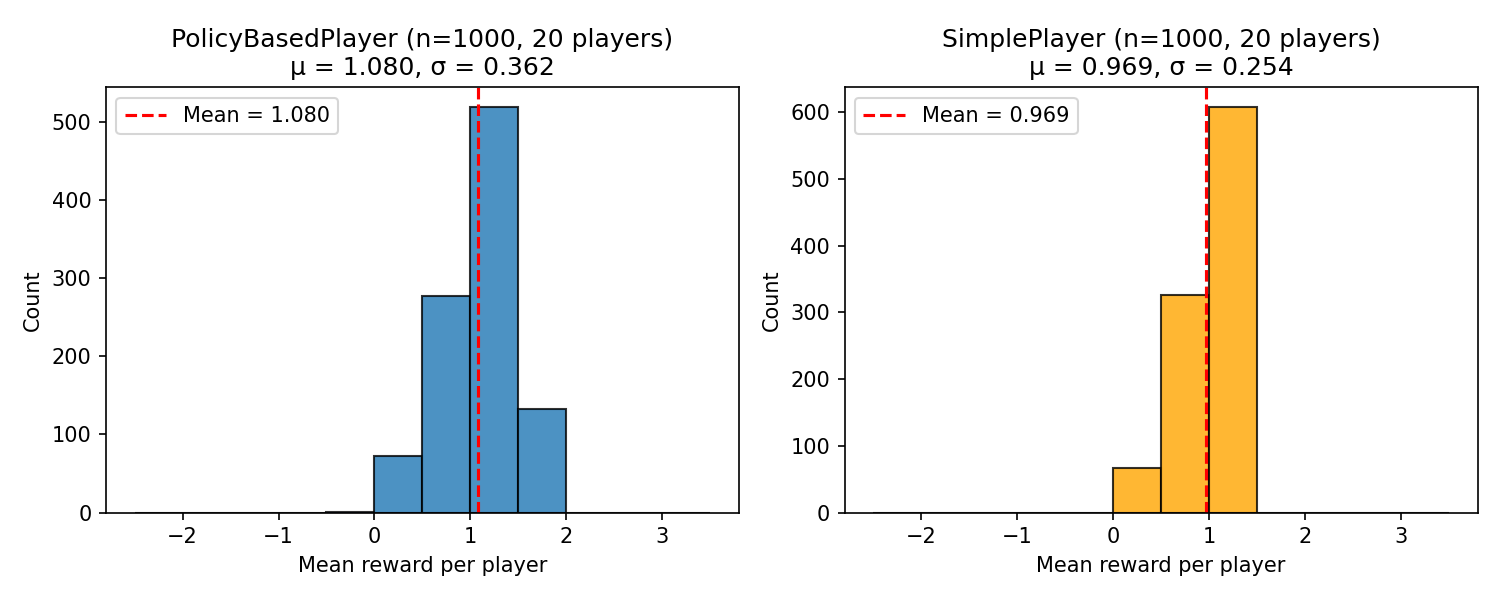
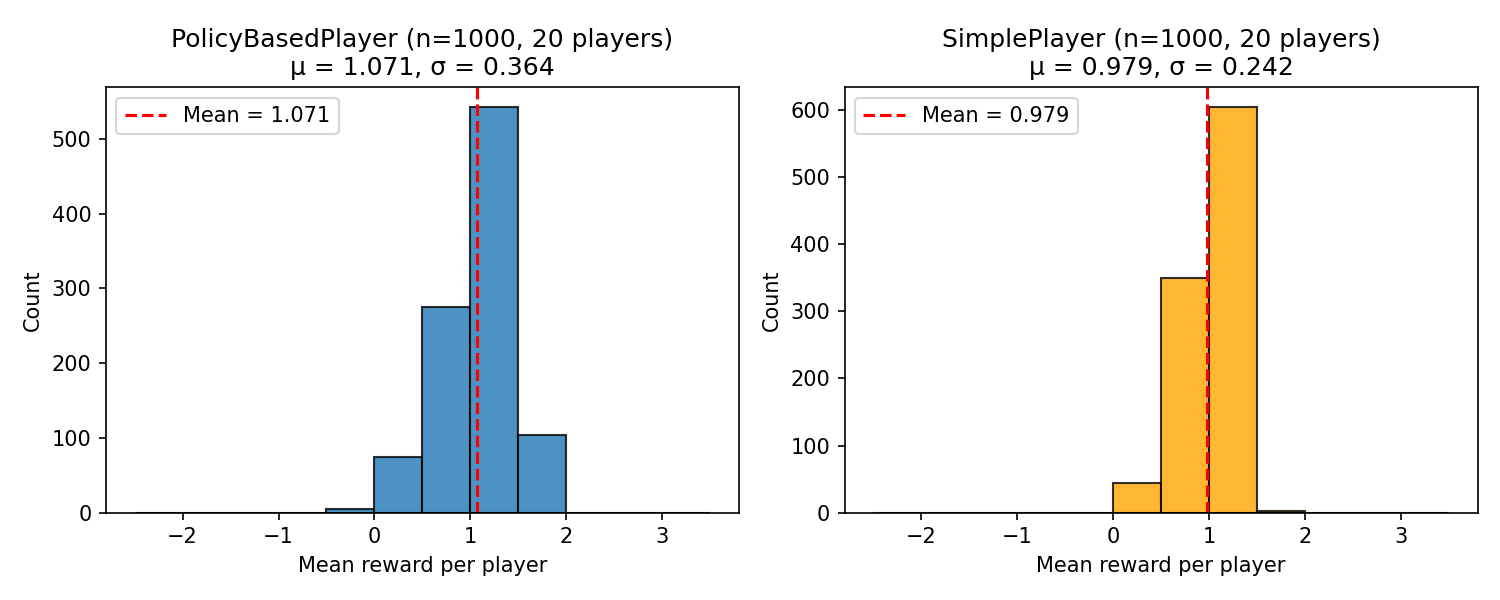
feat: clean up

diff --git a/benchmark.py b/benchmark.py
@@ -13,12 +13,9 @@ import json
 import random
 from pathlib import Path
 import matplotlib.pyplot as plt
-from game import (
-    Game,
-    Action,
-    is_natural_blackjack,
-    dealer_bot_action,
-)
+from game import Card, Game, make_deck
+from game import Action, is_natural_blackjack, dealer_bot_action
+from deck import DeckCuttingStrategy, DeckShuffleStrategy, SwooshShuffleStrategy
 from players import Player, SimplePlayer, PolicyBasedPlayer
 from agent import policy_from_dict
 from scipy import stats
@@ -31,20 +28,23 @@ def run_game_all_same_strategy(
     game: Game,
     player: Player,
     *,
-    seed: int,
-    is_first_round: bool,
+    deck: list[Card],
 ) -> float:
     """
     Run one game. All non-dealer players use the same strategy.
-    Uses the shared game instance: first round calls deal(), later rounds use soft_reset + deal_round.
+    Uses the shared game instance: first round uses a new deck and first_shuffle; later rounds use soft_reset + subsequent_shuffle + deal_round.
     Returns the mean reward per player (over positions 1..n_players).
     """
-    random.seed(seed)
-    if is_first_round:
-        game.deal()
-    else:
-        game.soft_reset()
-        game.deal_round()
+    # random.seed(seed)
+    # if is_first_round:
+    #     deck = make_deck()
+    #     first_shuffle.shuffle(deck, is_first=True)
+    #     game.deal(deck)
+    # else:
+    #     game.soft_reset()
+    #     subsequent_shuffle.shuffle(game.deck, is_first=False)
+    #     game.deal_round()
+    game.deal(deck)
 
     while not game.all_turns_done():
         current = game.current_turn
@@ -134,20 +134,29 @@ def main() -> None:
     rewards_policy: list[float] = []
     rewards_simple: list[float] = []
     game = Game(n_players=n_players)
+    first_shuffle = SwooshShuffleStrategy()
+    subsequent_shuffle = DeckCuttingStrategy()
 
+    deck = make_deck()
+    first_shuffle.shuffle(deck, is_first=True)
     for run in range(num_runs):
-        seed = run
-        is_first = run == 0
         rewards_policy.append(
             run_game_all_same_strategy(
-                game, policy_player, seed=seed, is_first_round=is_first
+                game,
+                policy_player,
+                deck=deck,
             )
         )
+        game.soft_reset()
         rewards_simple.append(
             run_game_all_same_strategy(
-                game, simple_player, seed=seed, is_first_round=False
+                game,
+                simple_player,
+                deck=deck,
             )
         )
+        game.soft_reset()
+        subsequent_shuffle.shuffle(deck, is_first=False)
 
     # Stats
     def mean(xs: list[float]) -> float:

diff --git a/game.py b/game.py
@@ -6,7 +6,7 @@ import random
 from dataclasses import dataclass, field
 from enum import Enum
 from typing import List, Optional
-from deck import DeckCuttingStrategy, DeckShuffleStrategy, SwooshShuffleStrategy
+
 
 class Suit(str, Enum):
     SPADES = "♠"
@@ -146,39 +146,24 @@ class PlayerState:
 
 
 class Game:
-    """Single round: one dealer, positions 1..n_players (N = n_players + 1)."""
+    """Single round: one dealer, positions 1..n_players (N = n_players + 1). Caller passes the deck to deal()."""
 
-    def __init__(
-        self,
-        n_players: int,
-        *,
-        first_shuffle: DeckShuffleStrategy | None = None,
-        subsequent_shuffle: DeckShuffleStrategy | None = None,
-    ):
+    def __init__(self, n_players: int):
         assert n_players >= 1
         self.n_players = n_players
         self.N = n_players + 1  # dealer + players
-        self.deck: List[Card] = make_deck()
+        self.deck: List[Card] = []
         self.players: List[PlayerState] = []
         self.current_turn: int = 1  # 1 to n_players, then 0 for dealer
         self.revealed: bool = False
-        self._first_deal = True
-        default = SwooshShuffleStrategy()
-        self._first_shuffle = first_shuffle if first_shuffle is not None else default
-        self._subsequent_shuffle = DeckCuttingStrategy(proportion_min=0.1, proportion_max=0.7, n=10)
-        # self._subsequent_shuffle = subsequent_shuffle if subsequent_shuffle is not None else default
 
     def _seat_order_for_deal(self) -> List[int]:
         """Order to deal: first card to 1, 2, ..., n_players, 0; then same again."""
         return list(range(1, self.N)) + [0]
 
-    def deal(self) -> None:
-        # self.deck = make_deck()
-        if self._first_deal:
-            self._first_shuffle.shuffle(self.deck, is_first=True)
-            self._first_deal = False
-        else:
-            self._subsequent_shuffle.shuffle(self.deck, is_first=False)
+    def deal(self, deck: List[Card]) -> None:
+        """Deal from the provided deck (caller is responsible for shuffling). Deck is used in place."""
+        self.deck = deck
         self.players = [PlayerState(position=k) for k in range(self.N)]
         order = self._seat_order_for_deal()
         for _ in range(2):

diff --git a/main.py b/main.py
@@ -4,6 +4,7 @@
 import json
 from pathlib import Path
 
+from deck import SwooshShuffleStrategy
 from game import (
     Game,
     Action,
@@ -12,6 +13,7 @@ from game import (
     is_natural_blackjack,
     bot_hold_or_draw,
     dealer_bot_action as _dealer_bot_action,
+    make_deck,
 )
 
 # Optional: trained RL agent (load when user chooses "trained agent")
@@ -69,8 +71,10 @@ def run_cli() -> None:
             pass
         print(f"Enter a number from 1 to {n_players}.")
 
+    deck = make_deck()
+    SwooshShuffleStrategy().shuffle(deck, is_first=True)
     game = Game(n_players=n_players)
-    game.deal()
+    game.deal(deck)
 
     print("\n--- Dealt hands (others hidden until reveal) ---")
     for k in game.turn_order():

diff --git a/agent.py b/agent.py
@@ -19,8 +19,10 @@ from game import (
     _min_total,
     bot_hold_or_draw,
     dealer_bot_action,
+    make_deck,
 )
 from game import Card  # noqa: F401 - for type hints
+from deck import SwooshShuffleStrategy
 
 
 # --- State representation (at decision time: 2 cards) ---
@@ -80,8 +82,10 @@ def run_episode(
     """
     if seed is not None:
         random.seed(seed)
+    deck = make_deck()
+    SwooshShuffleStrategy().shuffle(deck, is_first=True)
     game = Game(n_players=n_players)
-    game.deal()
+    game.deal(deck)
 
     agent_state: tuple[int, int] | None = None
     agent_action: int = -1
